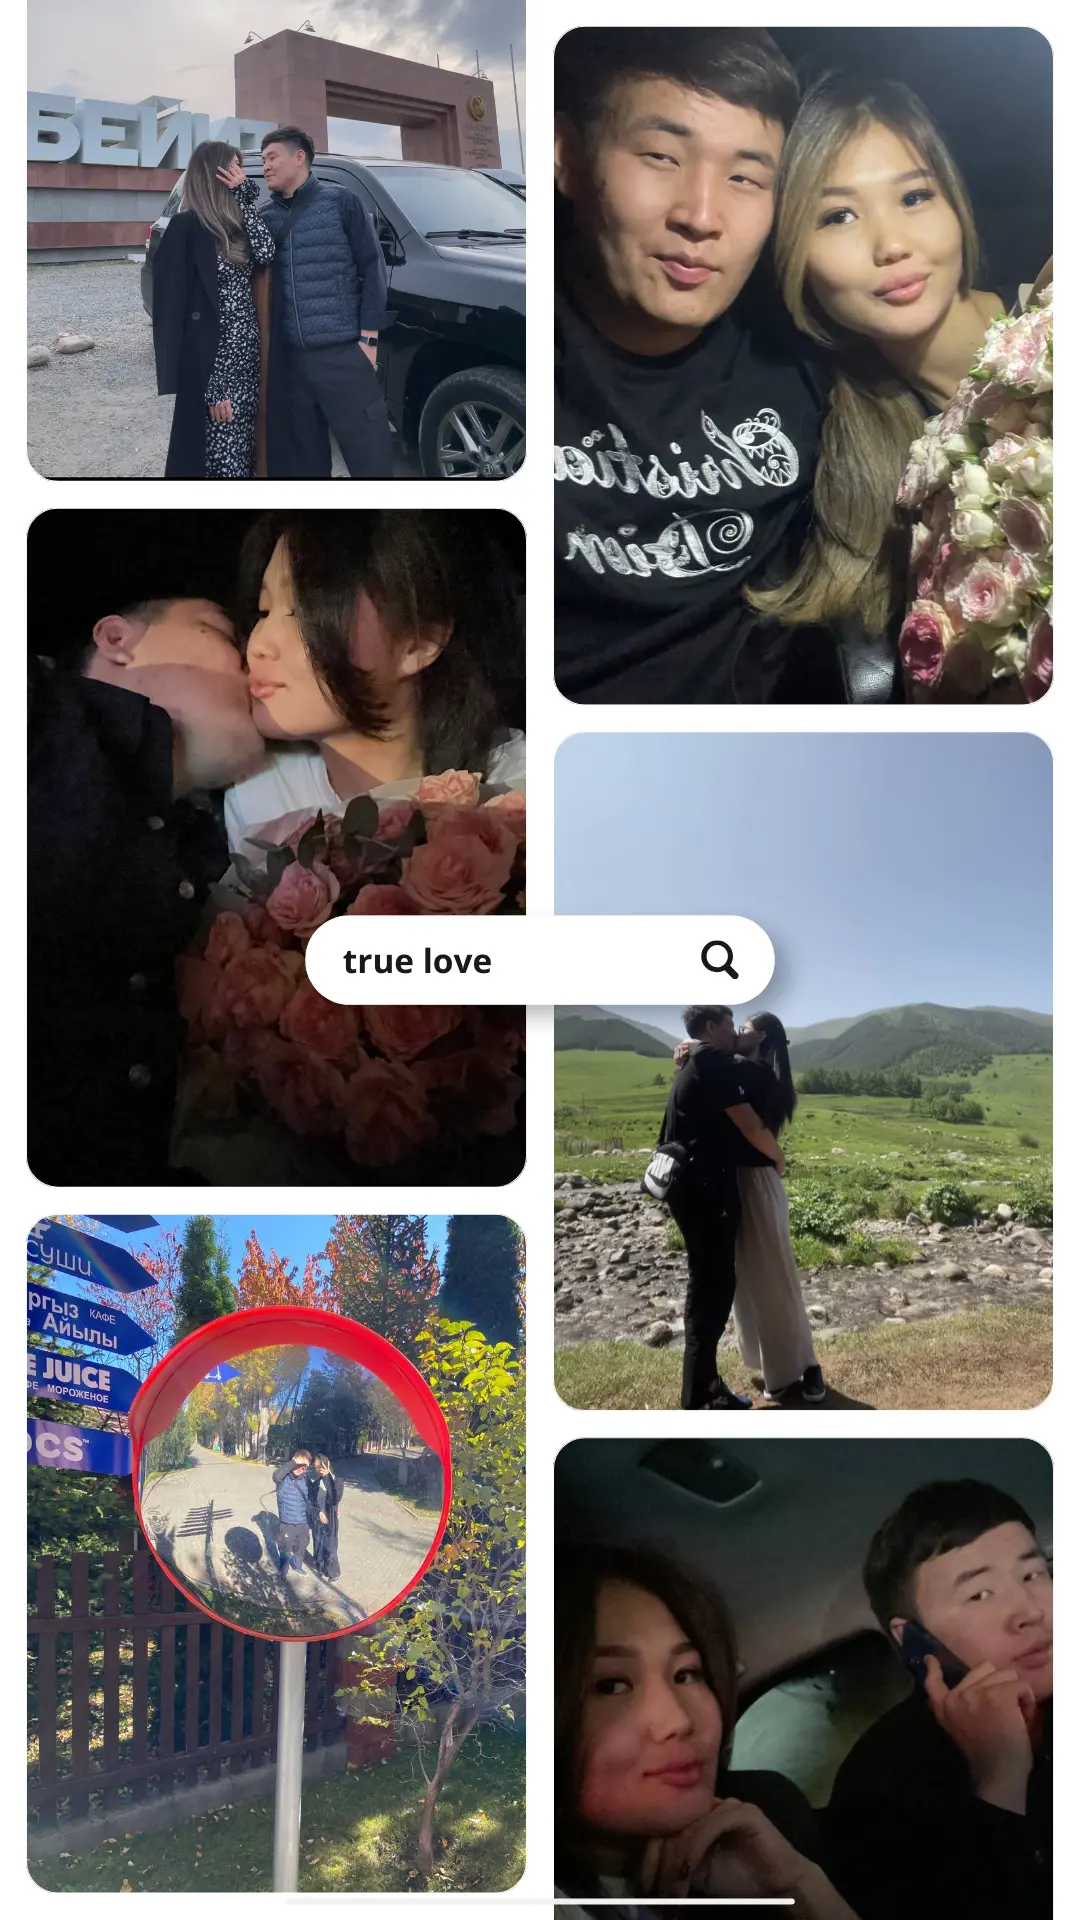
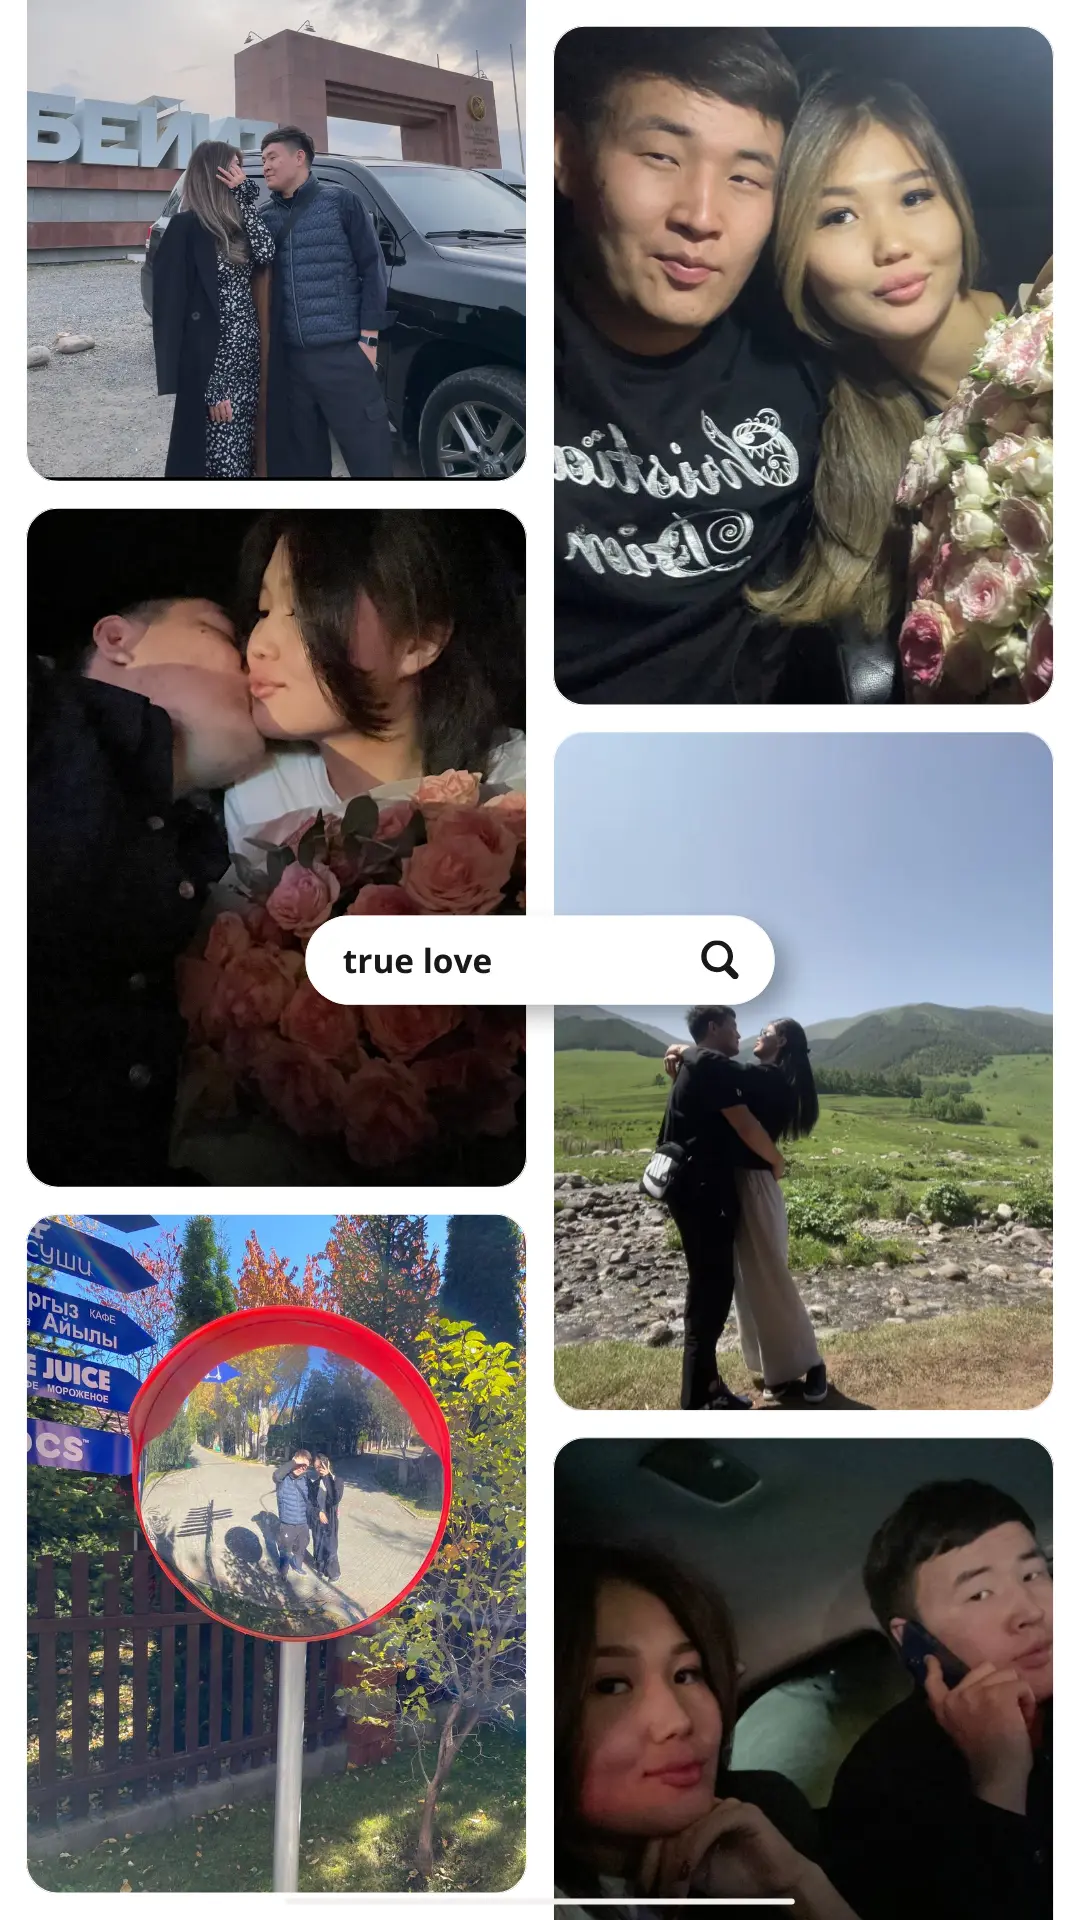
.

diff --git a/src/app/page.tsx b/src/app/page.tsx
@@ -70,13 +70,13 @@ const page = () => {
       {showRest && (
         <>
           <div onClick={smoothScrollDown} className={styles.img2}>
-            <Image priority src="/images/four.webp" fill alt="open" />
+            <Image loading="lazy" src="/images/four.webp" fill alt="open" />
           </div>
           <div onClick={smoothScrollDown} className={styles.img2}>
-            <Image priority src="/images/trip.webp" fill alt="open" />
+            <Image src="/images/trip.webp" fill alt="open" loading="lazy" />
           </div>
           <div onClick={smoothScrollDown} className={styles.img2}>
-            <Image priority src="/images/six.webp" fill alt="open" />
+            <Image src="/images/update.webp" fill alt="open" loading="lazy" />
           </div>
           <Typewritter />
           <Slider />
